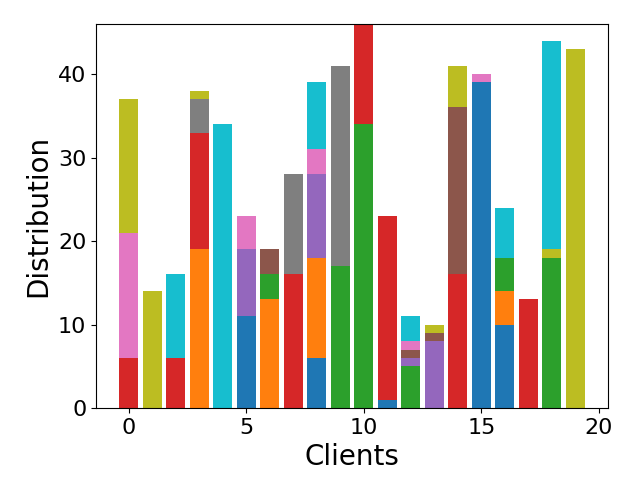
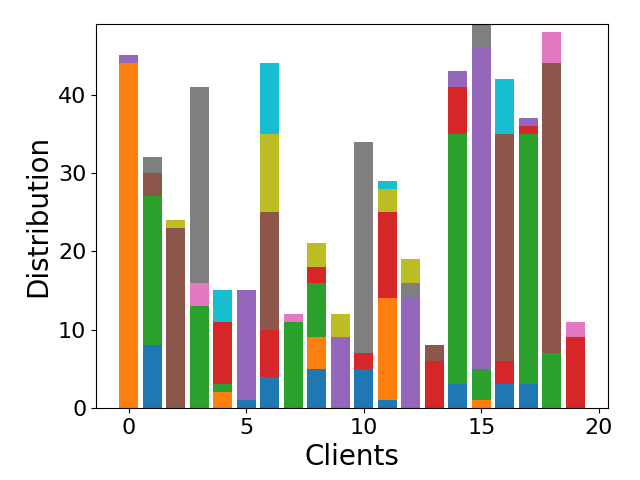
running

diff --git a/utils/fed.py b/utils/fed.py
@@ -18,7 +18,7 @@ class Config:
 
     class SelectionMode(Enum):
         # prob based, smaller than random
-        PROB_CV = 1
+        PROB_ESRCV = 1
         PROB_WEIGHT = 2
 
         RANDOM = 10
@@ -350,20 +350,36 @@ class GFL:
         def __calc_group_cost(groups: 'list[list[int]]') -> np.ndarray:
             # cost for one group train: local_cost * local epoch num + group aggregate cost * 1
             costs = np.zeros((len(groups),))
+            
             for i, group in enumerate(groups):
-                training_cost = 0
-                for client_index in group:
-                    # [0.08827506 0.05286743]
-                    training_cost += (0.08827506 * self.clients_data_nums[client_index] + 0.05286743) * self.config.local_epoch_num
-
+                group_cost_one_round = 0
+                
                 group_size = len(group)
-                # [ 0.00509987 0.00114916  -0.03624395]
-                group_overhead = (0.00509987 * group_size**2 + 0.00114916 * group_size - 0.03624395)
+                for client_index in group:
+                    # Raspberry PI 4
+                    # secagg coefficiences: [ 0.01629675 -0.02373668  0.55442565]
+                    # double param size (SCAFFOLD): [0.01879308 0.18775216 0.19883809]
+                    group_coefs = [ 0.01629675, -0.02373668,  0.55442565]
+                    # if self.config.train_method == Config.TrainMethod.SCAFFOLD:
+                    #     group_coefs = [0.01879308, 0.18775216, 0.19883809]
+                    # distance coefficiences: [ 0.00548707  0.0038231  -0.06900253]
 
-                if len(group) < 5:
-                    group_overhead = 0
-                costs[i] = training_cost + group_overhead
+                    # training coefficiences: [ 0.07093414 -0.00559966]
+                    train_coefs = [ 0.07093414, -0.00559966]
+                    # [0.08827506 0.05286743]
+                    training_cost = (train_coefs[0] * self.clients_data_nums[client_index] + train_coefs[1]) * self.config.local_epoch_num
+                    # [ 0.00509987 0.00114916  -0.03624395]
 
+                    group_overhead = (group_coefs[0] * (group_size*group_size) + group_coefs[1] * group_size + group_coefs[2])
+                    # group_overhead *= 2 // sec agg and backdoor prevention
+                    # if len(group) < 5:
+                    #     group_overhead = 0
+
+                    client_cost = (training_cost + group_overhead)
+                    group_cost_one_round += client_cost
+                
+                costs[i] = group_cost_one_round * self.config.group_epoch_num
+            
             return costs
 
         self.groups = []
@@ -427,7 +443,7 @@ class GFL:
         if self.config.selection_mode.value <= Config.SelectionMode.RANDOM.value:
             probs = self.__calc_probs()
             pc = probs.copy()
-            np.multiply(probs, self.groups_data_nums_arr, out=pc) # weighted average
+            np.multiply(probs, self.groups_data_nums_arr, out=pc) # weighted average group data num
             weighted_avg = np.sum(pc)
             indices = range(len(self.groups))
             sampling_num = int((sum(self.clients_data_nums) * self.config.sampling_frac) / weighted_avg)
@@ -521,7 +537,7 @@ class GFL:
         """
         cost = 0
         for group_index in selected_groups:
-            cost += self.groups_costs_arr[group_index] * self.config.group_epoch_num
+            cost += self.groups_costs_arr[group_index]
         return cost
 
     def run(self):
@@ -543,6 +559,15 @@ class GFL:
                 print('lr decay to {}'.format(self.clients[0].lr))
 
             selected_groups = self.sample()
+            selected_cost = self.calc_selected_groups_cost(selected_groups)
+
+            group_sizes = [ len(group) for group in self.groups]
+            print("[min, max] gs: ", np.min(group_sizes), np.max(group_sizes))
+            print("mean gs, cv: ", np.mean(group_sizes), np.mean(self.groups_cvs_arr))
+            data_selected = np.sum(self.groups_data_nums_arr[self.selected_groups])
+            print('selected data num, cost:', data_selected, selected_cost)
+            print('selected groups:', selected_groups)
+
             self.global_distribute(selected_groups)
             self.global_train(selected_groups)
             self.global_aggregate(selected_groups)

diff --git a/main.py b/main.py
@@ -10,7 +10,7 @@ from utils.data import TaskName
 
 base_config = Config(
     task_name=TaskName.CIFAR,
-    server_num=10, client_num=1000, data_num_range=(10, 50), alpha=0.1,
+    server_num=10, client_num=1000, data_num_range=(10, 51), alpha=0.1,
     sampling_frac=0.2,
     global_epoch_num=300, 
     # the following line may vary
@@ -91,8 +91,10 @@ if __name__ == "__main__":
     #     torch.cuda.manual_seed(seed)
 
     config = rg_rs
-    config.min_group_size = 30
-    config.test_mark = "gs30"
+    config.max_cv = 0.5
+    config.min_group_size = 5
+    # config.test_mark = "a0.1_cv0.1_5*1"
+    config.test_mark = "a0.1_gs5_5*1"
     config.comment = ""
     gfl = GFL(config)
     gfl.run()
